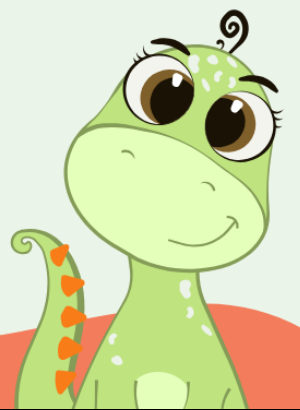
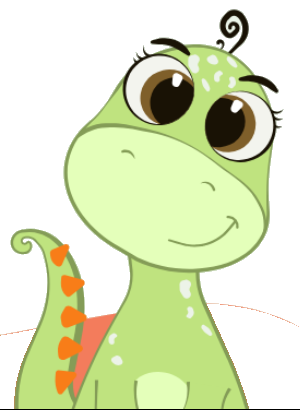
Upgrade Dino Land demo site with birthdays

diff --git a/demo/dinoland/index.html b/demo/dinoland/index.html
@@ -3,167 +3,217 @@
 <head>
 <meta charset="utf-8">
 <meta name="viewport" content="width=device-width, initial-scale=1, viewport-fit=cover">
-<meta name="theme-color" content="#EBF4E8">
+<meta name="theme-color" content="#0F5F64">
 <title>داينو لاند | مركز ترفيهي للأطفال في الأحساء</title>
-<link href="https://fonts.googleapis.com/css2?family=Baloo+Bhaijaan+2:wght@500..800&family=Tajawal:wght@400;500;700&display=swap" rel="stylesheet">
+<link href="https://fonts.googleapis.com/css2?family=Baloo+Bhaijaan+2:wght@500..800&family=Tajawal:wght@400;500;700;800&display=swap" rel="stylesheet">
 <style>
-:root{--bg:#EBF4E8;--card:#FAFCF6;--teal:#13878E;--deep:#12393C;--coral:#E0694A;--lime:#B8D67A;--body:#3F5A5C;}
+:root{--bg:#EBF4E8;--card:#FBFDF8;--teal:#13878E;--teal2:#0F5F64;--deep:#0E2E31;--coral:#E0694A;--coral2:#F2A07E;--lime:#B8D67A;--gold:#F4C95D;--body:#47605F;}
 *{box-sizing:border-box;min-width:0}
-html{scroll-behavior:smooth}
-body{margin:0;background:var(--bg);color:var(--deep);font:17px/1.7 'Tajawal',Tahoma,sans-serif;overflow-x:clip;padding-bottom:env(safe-area-inset-bottom,0px)}
-h1,h2,h3{font-family:'Baloo Bhaijaan 2',Tahoma,sans-serif;margin:0;line-height:1.2}
+html{scroll-behavior:smooth;scroll-padding-top:84px}
+body{margin:0;background:var(--bg);color:var(--deep);font:17px/1.75 'Tajawal',Tahoma,sans-serif;overflow-x:clip}
+h1,h2,h3{font-family:'Baloo Bhaijaan 2',Tahoma,sans-serif;margin:0;line-height:1.15}
 a{color:inherit}
-.wrap{max-width:1100px;margin:auto;padding:0 20px}
-.demo{background:var(--deep);color:#EAF4EE;text-align:center;font-size:13px;padding:6px 12px;padding-top:calc(6px + env(safe-area-inset-top,0px))}
-nav{display:flex;justify-content:space-between;align-items:center;padding:14px 0}
-nav img{height:54px}
-nav .links{display:flex;gap:18px;flex-wrap:wrap}
-nav .links a{text-decoration:none;font-weight:700;color:var(--teal)}
-.btn{display:inline-flex;align-items:center;gap:8px;background:var(--coral);color:#fff;text-decoration:none;font-weight:700;border-radius:40px;padding:12px 26px;min-height:48px;box-shadow:0 10px 20px -10px #e0694aaa}
-.btn.alt{background:#fff;color:var(--teal);box-shadow:none;border:2px solid var(--teal)}
-.hero{display:grid;grid-template-columns:1.1fr .9fr;gap:30px;align-items:end;padding-top:20px}
-.hero h1{font-size:clamp(38px,6vw,64px);color:var(--teal);font-weight:800}
-.hero p{font-size:20px;color:var(--body);margin:14px 0 22px;max-width:30ch}
-.chips{display:flex;gap:8px;flex-wrap:wrap;margin-bottom:22px}
-.chips span{background:#fff;border-radius:30px;padding:6px 14px;font-weight:700;font-size:15px;color:var(--deep)}
-.mascot{position:relative;display:flex;justify-content:center}
-.mascot img{width:min(340px,80%);display:block;animation:float 4s ease-in-out infinite}
-.bubble{position:absolute;z-index:2;top:6%;left:6%;white-space:nowrap;background:#fff;border:3px solid var(--teal);border-radius:24px;padding:8px 18px;font-family:'Baloo Bhaijaan 2',Tahoma,sans-serif;font-weight:700;color:var(--teal);font-size:20px}
-@keyframes float{50%{transform:translateY(-10px)}}
-.waves{display:block;width:100%;height:110px;margin-top:-6px}
-section.band{padding:56px 0}
-section.band.white{background:var(--card)}
-h2{font-size:clamp(30px,4.5vw,44px);color:var(--deep);margin-bottom:8px}
-.sub{color:var(--body);margin:0 0 28px}
-.prices{display:grid;grid-template-columns:repeat(auto-fit,minmax(min(100%,230px),1fr));gap:16px}
-.price{background:#fff;border-radius:24px;padding:24px;display:flex;justify-content:space-between;align-items:center;gap:10px;box-shadow:0 10px 24px -18px #12393c66}
-.price b{font-size:20px}
-.price .v{font-family:'Baloo Bhaijaan 2',Tahoma,sans-serif;font-size:36px;font-weight:800;color:var(--coral);white-space:nowrap}
-.price .v small{font-size:16px;color:var(--body);font-weight:500}
-.note{font-size:15px;color:var(--body);margin-top:14px}
-.sub-wrap{display:grid;grid-template-columns:1fr 1fr;gap:20px;align-items:stretch}
-.plan{background:var(--teal);color:#F1F8F2;border-radius:28px;padding:28px;display:flex;flex-direction:column;gap:6px}
+.wrap{max-width:1140px;margin:auto;padding:0 22px}
+.demo{background:var(--deep);color:#CFE6E1;text-align:center;font-size:13px;padding:6px 12px;padding-top:calc(6px + env(safe-area-inset-top,0px))}
+header.top{position:sticky;top:0;z-index:20;background:rgba(235,244,232,.82);backdrop-filter:blur(14px);-webkit-backdrop-filter:blur(14px);border-bottom:1px solid rgba(19,135,142,.12)}
+header.top .wrap{display:flex;justify-content:space-between;align-items:center;height:72px}
+header.top img{height:46px}
+.links{display:flex;gap:22px}
+.links a{text-decoration:none;font-weight:700;color:var(--teal2);font-size:16px}
+.links a:hover{color:var(--coral)}
+.btn{display:inline-flex;align-items:center;justify-content:center;gap:8px;background:linear-gradient(135deg,#EE7B58,var(--coral));color:#fff;text-decoration:none;font-weight:800;border-radius:40px;padding:12px 28px;min-height:50px;box-shadow:0 14px 28px -14px #e0694acc;transition:transform .2s,box-shadow .2s}
+.btn:hover{transform:translateY(-2px);box-shadow:0 18px 32px -14px #e0694acc}
+.btn.ghost{background:rgba(255,255,255,.9);color:var(--teal2);box-shadow:inset 0 0 0 2px var(--teal)}
+.btn.gold{background:linear-gradient(135deg,#FFD77A,var(--gold));color:var(--deep);box-shadow:0 14px 28px -14px #f4c95dcc}
+.btn:focus-visible,.seg button:focus-visible{outline:3px solid var(--gold);outline-offset:3px}
+.hero{position:relative;margin:26px auto 0;max-width:1180px;border-radius:44px;overflow:hidden;background:radial-gradient(120% 120% at 15% 10%,#1C9AA0 0%,var(--teal) 35%,var(--teal2) 100%);color:#F2FAF4;padding:56px 48px 0;display:grid;grid-template-columns:1.05fr .95fr;gap:20px;align-items:end;isolation:isolate}
+.hero::before{content:"";position:absolute;inset:0;background:radial-gradient(circle,rgba(255,255,255,.14) 1.5px,transparent 2px) 0 0/26px 26px;z-index:-1;opacity:.6}
+.blob{position:absolute;border-radius:50%;z-index:-1;animation:drift 9s ease-in-out infinite}
+.b1{width:180px;height:180px;background:var(--lime);opacity:.35;top:-40px;left:30%}
+.b2{width:90px;height:90px;background:var(--coral2);opacity:.5;top:40%;left:4%;animation-delay:-3s}
+.b3{width:60px;height:60px;background:var(--gold);opacity:.6;top:16%;right:46%;animation-delay:-6s}
+@keyframes drift{50%{transform:translate(14px,-18px)}}
+.hero .txt{padding-bottom:56px}
+.pill{display:inline-block;background:rgba(255,255,255,.16);border:1px solid rgba(255,255,255,.3);border-radius:30px;padding:5px 16px;font-weight:700;font-size:14px;margin-bottom:16px}
+.hero h1{font-size:clamp(42px,6.4vw,76px);font-weight:800;color:#fff}
+.hero h1 span{color:var(--gold)}
+.hero p{font-size:20px;color:#DDF0EA;margin:16px 0 26px;max-width:32ch}
+.actions{display:flex;gap:12px;flex-wrap:wrap}
+.stage{position:relative;display:flex;justify-content:center;align-items:flex-end;min-height:420px}
+.sun{position:absolute;bottom:-40px;width:400px;height:400px;border-radius:50%;background:radial-gradient(circle at 50% 40%,#F6E8B8,#EBD38A 60%,#E0C36E);box-shadow:0 0 0 18px rgba(255,255,255,.08),0 0 0 40px rgba(255,255,255,.05)}
+.stage img{position:relative;width:310px;display:block;animation:float 4.5s ease-in-out infinite;-webkit-mask-image:linear-gradient(#000 88%,transparent);mask-image:linear-gradient(#000 88%,transparent)}
+.bubble{position:absolute;z-index:3;top:18px;left:4%;background:#fff;color:var(--teal2);border-radius:22px 22px 22px 4px;padding:10px 20px;font-family:'Baloo Bhaijaan 2',Tahoma,sans-serif;font-weight:800;font-size:21px;box-shadow:0 12px 24px -12px rgba(0,0,0,.35);white-space:nowrap}
+@keyframes float{50%{transform:translateY(-12px)}}
+.stats{position:relative;z-index:2;max-width:1000px;margin:-38px auto 0;display:grid;grid-template-columns:repeat(4,1fr);background:var(--card);border-radius:28px;box-shadow:0 24px 50px -28px rgba(14,46,49,.45);overflow:hidden}
+.stats div{padding:20px 14px;text-align:center;border-inline-start:1px solid #e3ece1}
+.stats div:first-child{border:0}
+.stats b{display:block;font-family:'Baloo Bhaijaan 2',Tahoma,sans-serif;font-size:30px;color:var(--teal);line-height:1.2}
+.stats span{font-size:14px;color:var(--body)}
+section.band{padding:80px 0}
+.eyebrow{display:inline-block;background:#fff;color:var(--coral);font-weight:800;font-size:14px;border-radius:30px;padding:4px 14px;margin-bottom:12px}
+h2{font-size:clamp(32px,4.6vw,48px);color:var(--deep)}
+.sub{color:var(--body);margin:8px 0 34px;font-size:18px}
+.center{text-align:center}
+.prices{display:grid;grid-template-columns:repeat(4,1fr);gap:18px}
+.price{background:var(--card);border-radius:28px;padding:28px 22px;text-align:center;box-shadow:0 16px 34px -26px rgba(14,46,49,.5);transition:transform .25s}
+.price:hover{transform:translateY(-6px)}
+.price .ic{width:58px;height:58px;margin:0 auto 12px;border-radius:50%;display:grid;place-items:center;font-size:26px;background:var(--bg)}
+.price b{font-size:19px;display:block}
+.price .v{font-family:'Baloo Bhaijaan 2',Tahoma,sans-serif;font-size:46px;font-weight:800;color:var(--coral);line-height:1.15;margin:6px 0 0}
+.price .v small{font-size:17px;color:var(--body);font-weight:600}
+.note{font-size:15px;color:var(--body);margin-top:18px}
+.subgrid{display:grid;grid-template-columns:1fr 1.05fr;gap:22px}
+.plans{display:grid;gap:18px}
+.plan{position:relative;border-radius:30px;padding:30px;color:#F1F8F2;background:linear-gradient(140deg,var(--teal),var(--teal2));overflow:hidden}
+.plan::after{content:"";position:absolute;width:180px;height:180px;border-radius:50%;background:rgba(255,255,255,.08);left:-50px;bottom:-70px}
+.plan.best::before{content:"الأكثر توفيراً";position:absolute;top:18px;left:18px;background:var(--gold);color:var(--deep);font-weight:800;font-size:13px;border-radius:20px;padding:3px 12px}
 .plan h3{font-size:26px}
-.plan .v{font-family:'Baloo Bhaijaan 2',Tahoma,sans-serif;font-size:54px;font-weight:800;color:#fff;line-height:1.1}
+.plan .v{font-family:'Baloo Bhaijaan 2',Tahoma,sans-serif;font-size:60px;font-weight:800;color:#fff;line-height:1.1;margin:6px 0}
 .plan .v small{font-size:20px;opacity:.85}
-.plan .per{background:#ffffff26;border-radius:16px;padding:8px 14px;font-weight:700;align-self:flex-start}
-.calc{background:#fff;border-radius:28px;padding:28px;display:flex;flex-direction:column;gap:14px}
-.calc label{font-weight:700}
+.plan .per{display:inline-block;background:rgba(255,255,255,.16);border-radius:16px;padding:6px 14px;font-weight:700}
+.calc{background:var(--card);border-radius:30px;padding:32px;display:flex;flex-direction:column;gap:16px;box-shadow:0 16px 34px -26px rgba(14,46,49,.5)}
+.calc h3{font-size:26px;color:var(--teal2)}
 .seg{display:flex;gap:8px;flex-wrap:wrap}
-.seg button{font:inherit;font-weight:700;border:2px solid var(--teal);background:#fff;color:var(--teal);border-radius:30px;padding:8px 18px;min-height:44px;cursor:pointer}
+.seg button{font:inherit;font-weight:800;border:0;background:var(--bg);color:var(--teal2);border-radius:30px;padding:10px 20px;min-height:46px;cursor:pointer}
 .seg button.on{background:var(--teal);color:#fff}
-.seg button:focus-visible,.btn:focus-visible{outline:3px solid var(--coral);outline-offset:2px}
-.res{font-family:'Baloo Bhaijaan 2',Tahoma,sans-serif;font-size:28px;font-weight:800;color:var(--deep);line-height:1.4}
+.res{font-family:'Baloo Bhaijaan 2',Tahoma,sans-serif;font-size:26px;font-weight:800;line-height:1.5;background:var(--bg);border-radius:20px;padding:18px 22px;margin:0}
 .res em{font-style:normal;color:var(--coral)}
-.acts{display:grid;grid-template-columns:repeat(auto-fit,minmax(min(100%,180px),1fr));gap:14px}
-.act{background:var(--bg);border-radius:22px;padding:22px 18px;text-align:center}
-.act .e{font-size:40px;line-height:1}
-.act b{display:block;margin-top:8px;font-size:18px}
+.acts{display:grid;grid-template-columns:repeat(3,1fr);gap:18px}
+.act{background:var(--card);border-radius:28px;padding:26px;display:flex;gap:16px;align-items:center;box-shadow:0 16px 34px -26px rgba(14,46,49,.5)}
+.act .e{flex:none;width:64px;height:64px;border-radius:20px;display:grid;place-items:center;font-size:32px}
+.act b{display:block;font-size:19px}
 .act span{font-size:15px;color:var(--body)}
-.parties{display:grid;grid-template-columns:1fr 1fr;gap:20px}
-.party{background:#fff;border-radius:28px;padding:28px;border-top:8px solid var(--lime)}
-.party.c{border-top-color:var(--coral)}
-.party h3{font-size:26px;margin-bottom:6px}
-.party p{margin:0 0 16px;color:var(--body)}
-.visit{display:grid;grid-template-columns:1fr 1fr;gap:20px;align-items:center}
-.visit .box{background:#fff;border-radius:28px;padding:28px}
-.visit .row{display:flex;gap:12px;align-items:flex-start;margin:10px 0}
-.visit .row .e{font-size:24px}
-footer{background:var(--deep);color:#CFE3DE;text-align:center;padding:28px 20px;font-size:15px}
+.bday{position:relative;background:radial-gradient(120% 120% at 85% 0%,#2A9EA2,var(--teal2) 55%,var(--deep));color:#EAF5F0;border-radius:44px;max-width:1180px;margin:0 auto;padding:64px 48px;overflow:hidden;isolation:isolate}
+.conf{position:absolute;width:12px;height:12px;border-radius:3px;z-index:-1;animation:fall 7s linear infinite;opacity:.8}
+@keyframes fall{from{transform:translateY(-40px) rotate(0)}to{transform:translateY(760px) rotate(360deg)}}
+.bday .new{display:inline-block;background:var(--gold);color:var(--deep);font-weight:800;border-radius:30px;padding:4px 16px;font-size:14px;margin-bottom:12px}
+.bday h2{color:#fff}
+.bday .sub{color:#CFE6E1}
+.bgrid{display:grid;grid-template-columns:repeat(3,1fr);gap:18px;margin-bottom:30px}
+.bitem{background:rgba(255,255,255,.1);border:1px solid rgba(255,255,255,.18);border-radius:26px;padding:24px;backdrop-filter:blur(6px)}
+.bitem .e{font-size:34px}
+.bitem b{display:block;font-size:20px;color:#fff;margin:6px 0 4px}
+.bitem span{color:#CFE6E1;font-size:15px}
+.trip{display:grid;grid-template-columns:1fr 1fr;gap:22px;align-items:center}
+.card{background:var(--card);border-radius:30px;padding:32px;border-top:8px solid var(--lime);box-shadow:0 16px 34px -26px rgba(14,46,49,.5)}
+.card h3{font-size:28px;margin-bottom:8px}
+.card p{color:var(--body);margin:0 0 18px}
+.row{display:flex;gap:14px;align-items:flex-start;margin:12px 0}
+.row .e{flex:none;width:46px;height:46px;border-radius:14px;background:var(--bg);display:grid;place-items:center;font-size:22px}
+.waves{display:block;width:100%;height:110px;margin-top:40px}
+footer{background:var(--deep);color:#B9D6D0;text-align:center;padding:30px 20px calc(30px + env(safe-area-inset-bottom,0px));font-size:15px}
 footer b{color:#fff}
-@media (max-width:760px){.hero,.sub-wrap,.parties,.visit{grid-template-columns:1fr}.hero{text-align:center}.hero p{margin-inline:auto}.chips{justify-content:center}nav .links{display:none}.mascot img{width:240px}}
-@media (prefers-reduced-motion:reduce){.mascot img{animation:none}html{scroll-behavior:auto}}
+@media (max-width:900px){.prices{grid-template-columns:repeat(2,1fr)}.acts,.bgrid{grid-template-columns:1fr 1fr}}
+@media (max-width:760px){.hero{grid-template-columns:1fr;padding:40px 24px 0;text-align:center;border-radius:0 0 36px 36px;margin-top:0}.hero p{margin-inline:auto}.actions{justify-content:center}.stage{min-height:330px}.sun{width:300px;height:300px}.stage img{width:230px}.stats{grid-template-columns:1fr 1fr;margin:-24px 16px 0}.stats div:nth-child(3){border:0}.links{display:none}.subgrid,.trip{grid-template-columns:1fr}.acts,.bgrid{grid-template-columns:1fr}.bday{border-radius:0;padding:48px 22px}section.band{padding:60px 0}}
+@media (prefers-reduced-motion:reduce){*{animation:none!important;transition:none!important}html{scroll-behavior:auto}}
 </style>
 </head>
 <body>
 <div class="demo">نموذج تجريبي من تصميم عبدالله هيثم لداينو لاند</div>
-<div class="wrap">
-<nav>
+<header class="top"><div class="wrap">
 <img src="dino-logo.png" alt="داينو لاند">
-<div class="links"><a href="#prices">الأسعار</a><a href="#sub">الاشتراك</a><a href="#play">الأنشطة</a><a href="#parties">الحفلات والرحلات</a><a href="#visit">موقعنا</a></div>
-</nav>
-<header class="hero">
-<div>
-<h1>داينو لاند<br>نلعب ونتعلم 🦖</h1>
-<p>مركز ترفيهي آمن ومطوّر للأطفال في الأحساء، يدعم التعلم باللعب.</p>
-<div class="chips"><span>👧 من 4 إلى 12 سنة</span><span>🛡 مكان آمن</span><span>🎨 أنشطة كل أسبوع</span></div>
-<a class="btn" href="https://linktr.ee/dinoland2030">تواصل واحجز</a>
-<a class="btn alt" href="#sub" style="margin-inline-start:8px">وفّر مع الاشتراك</a>
-</div>
-<div class="mascot"><div class="bubble">هلا والله!</div><img src="dino-mascot.png" alt="داينو، شخصية داينو لاند"></div>
-</header>
-</div>
-<svg class="waves" viewBox="0 0 1440 110" preserveAspectRatio="none" aria-hidden="true"><path d="M0 40 C 300 0 600 10 860 40 S 1300 70 1440 30 L1440 110 L0 110Z" fill="#B8D67A"/><path d="M0 70 C 380 40 700 90 1000 65 S 1320 50 1440 72 L1440 110 L0 110Z" fill="#13878E"/><path d="M0 95 C 400 80 800 108 1100 92 S 1360 88 1440 98 L1440 110 L0 110Z" fill="#E0694A"/></svg>
+<nav class="links"><a href="#prices">الأسعار</a><a href="#sub">الاشتراك</a><a href="#play">الأنشطة</a><a href="#bday">أعياد الميلاد</a><a href="#visit">موقعنا</a></nav>
+<a class="btn" href="https://linktr.ee/dinoland2030" style="min-height:42px;padding:8px 20px">احجز</a>
+</div></header>
 
-<section class="band white" id="prices"><div class="wrap">
-<h2>الأسعار</h2><p class="sub">شاملة ضريبة القيمة المضافة</p>
-<div class="prices">
-<div class="price"><b>الساعة</b><span class="v">55 <small>ريال</small></span></div>
-<div class="price"><b>الساعتين</b><span class="v">85 <small>ريال</small></span></div>
-<div class="price"><b>الساعة للأخوين</b><span class="v">95 <small>ريال</small></span></div>
-<div class="price"><b>المرافق</b><span class="v">10 <small>ريال</small></span></div>
+<section class="hero">
+<span class="blob b1"></span><span class="blob b2"></span><span class="blob b3"></span>
+<div class="txt">
+<span class="pill">🦖 الأحساء · حي الواحة</span>
+<h1>عالم داينو<br><span>يلعب ويتعلم</span></h1>
+<p>مركز ترفيهي آمن ومطوّر للأطفال، كل زيارة فيها لعب وإبداع وضحك.</p>
+<div class="actions"><a class="btn gold" href="https://linktr.ee/dinoland2030">تواصل واحجز</a><a class="btn ghost" href="#bday">احتفل عندنا 🎂</a></div>
 </div>
-<p class="note">الجوارب متوفرة في المركز · خصم 10% للمجموعات</p>
+<div class="stage"><div class="sun"></div><div class="bubble">هلا والله! 👋</div><img src="dino-mascot.png" alt="داينو، شخصية داينو لاند"></div>
+</section>
+<div class="stats">
+<div><b>4–12</b><span>سنة</span></div>
+<div><b>29 يوم</b><span>اشتراك شهري</span></div>
+<div><b>10%</b><span>خصم للمجموعات</span></div>
+<div><b>آمن</b><span>ومطوّر</span></div>
+</div>
+
+<section class="band" id="prices"><div class="wrap">
+<div class="center"><span class="eyebrow">الأسعار</span><h2>اختر وقت اللعب</h2><p class="sub">شاملة ضريبة القيمة المضافة</p></div>
+<div class="prices">
+<div class="price"><div class="ic">⏱</div><b>الساعة</b><p class="v">55 <small>ريال</small></p></div>
+<div class="price"><div class="ic">⏳</div><b>الساعتين</b><p class="v">85 <small>ريال</small></p></div>
+<div class="price"><div class="ic">👫</div><b>الساعة للأخوين</b><p class="v">95 <small>ريال</small></p></div>
+<div class="price"><div class="ic">🤝</div><b>المرافق</b><p class="v">10 <small>ريال</small></p></div>
+</div>
+<p class="note center">الجوارب متوفرة في المركز · خصم 10% للمجموعات</p>
 </div></section>
 
-<section class="band" id="sub"><div class="wrap">
-<h2>الاشتراك الشهري</h2><p class="sub">29 يوم، وطفلك يجي كل يوم</p>
-<div class="sub-wrap">
-<div style="display:grid;gap:16px">
-<div class="plan"><h3>ساعة يومياً</h3><p class="v">750 <small>ريال</small></p><span class="per">حوالي 26 ريال لليوم</span></div>
-<div class="plan" style="background:#0F6F75"><h3>ساعتين يومياً</h3><p class="v">1,160 <small>ريال</small></p><span class="per">حوالي 40 ريال لليوم</span></div>
+<section class="band" id="sub" style="padding-top:0"><div class="wrap">
+<span class="eyebrow">الاشتراك الشهري</span><h2>كل يوم لعب، بسعر أقل</h2><p class="sub">29 يوم، وطفلك يجي كل يوم</p>
+<div class="subgrid">
+<div class="plans">
+<div class="plan best"><h3>ساعة يومياً</h3><p class="v">750 <small>ريال</small></p><span class="per">حوالي 26 ريال لليوم</span></div>
+<div class="plan" style="background:linear-gradient(140deg,#0F6F75,var(--deep))"><h3>ساعتين يومياً</h3><p class="v">1,160 <small>ريال</small></p><span class="per">حوالي 40 ريال لليوم</span></div>
 </div>
 <div class="calc">
-<label>كم مرة يجي طفلك في الشهر؟</label>
-<div class="seg" id="seg"><button type="button" data-n="8">8 مرات</button><button type="button" data-n="15" class="on">15 مرة</button><button type="button" data-n="29">كل يوم</button></div>
+<h3>احسبي توفيرك</h3>
+<p style="margin:0;color:var(--body)">كم مرة يجي طفلك في الشهر؟</p>
+<div class="seg" id="seg"><button type="button" data-n="8">8 مرات</button><button type="button" data-n="15" class="on">15 مرة</button><button type="button" data-n="22">22 مرة</button><button type="button" data-n="29">كل يوم</button></div>
 <p class="res" id="res"></p>
-<p class="note">الحسبة على أساس سعر الساعة 55 ريال مقابل اشتراك الساعة اليومية. يرجى الاطلاع على الشروط والأحكام.</p>
+<p class="note" style="margin:0">الحسبة على أساس سعر الساعة 55 ريال مقابل اشتراك الساعة اليومية. يرجى الاطلاع على الشروط والأحكام.</p>
 <a class="btn" href="https://linktr.ee/dinoland2030" style="align-self:flex-start">اشترك الحين</a>
 </div>
 </div>
 </div></section>
 
-<section class="band white" id="play"><div class="wrap">
-<h2>وش نسوي في داينو لاند؟</h2><p class="sub">أنشطة تتجدد، وطفلك يتعلم وهو يلعب</p>
+<section class="band" id="play" style="padding-top:0"><div class="wrap">
+<div class="center"><span class="eyebrow">الأنشطة</span><h2>وش نسوي في داينو لاند؟</h2><p class="sub">أنشطة تتجدد، وطفلك يتعلم وهو يلعب</p></div>
 <div class="acts">
-<div class="act"><div class="e">🎨</div><b>الرسم والتلوين</b><span>ورش رسم وأنشطة فنية</span></div>
-<div class="act"><div class="e">🧩</div><b>تحديات التركيب</b><span>مين الأسرع؟</span></div>
-<div class="act"><div class="e">🟠</div><b>مسبح الكور</b><span>لعب وحركة</span></div>
-<div class="act"><div class="e">🏖</div><b>الرمل الملوّن</b><span>تشكيل وإبداع</span></div>
-<div class="act"><div class="e">🦋</div><b>الرسم على الوجه</b><span>شخصيات وألوان</span></div>
-<div class="act"><div class="e">✨</div><b>تجارب 3D</b><span>عالم ثاني</span></div>
+<div class="act"><div class="e" style="background:#FCE3D9">🎨</div><div><b>الرسم والتلوين</b><span>ورش رسم وأنشطة فنية</span></div></div>
+<div class="act"><div class="e" style="background:#E2F0CC">🧩</div><div><b>تحديات التركيب</b><span>مين الأسرع؟</span></div></div>
+<div class="act"><div class="e" style="background:#FFF0CC">🟠</div><div><b>مسبح الكور</b><span>لعب وحركة</span></div></div>
+<div class="act"><div class="e" style="background:#D6EEEF">🏖</div><div><b>الرمل الملوّن</b><span>تشكيل وإبداع</span></div></div>
+<div class="act"><div class="e" style="background:#FCE3D9">🦋</div><div><b>الرسم على الوجه</b><span>شخصيات وألوان</span></div></div>
+<div class="act"><div class="e" style="background:#E2F0CC">✨</div><div><b>تجارب 3D</b><span>عالم ثاني</span></div></div>
 </div>
 </div></section>
 
-<section class="band" id="parties"><div class="wrap">
-<h2>حفلات ورحلات</h2><p class="sub">خلّ المناسبة في داينو لاند</p>
-<div class="parties">
-<div class="party"><h3>🎂 أعياد الميلاد</h3><p>احتفلوا بيوم طفلكم مع أصحابه في مكان آمن ومليان لعب.</p><a class="btn" href="https://linktr.ee/dinoland2030">اسأل عن الحفلات</a></div>
-<div class="party c"><h3>🏫 رحلات الروضات والمدارس</h3><p>رحلة مرتبة للمجموعات، وخصم 10% للمجموعات.</p><a class="btn" href="https://linktr.ee/dinoland2030">رتّب رحلة</a></div>
+<section class="bday" id="bday">
+<div id="conf"></div>
+<span class="new">جديد ✨</span>
+<h2>احتفل بيوم ميلاد طفلك مع داينو</h2>
+<p class="sub">حفلة كاملة في مكان آمن، وأنتم بس استمتعوا</p>
+<div class="bgrid">
+<div class="bitem"><div class="e">🎈</div><b>ركن الحفلة</b><span>زينة بألوان داينو وطاولة للكيك</span></div>
+<div class="bitem"><div class="e">🦖</div><b>داينو يحتفل معكم</b><span>فقرات وألعاب جماعية مع الأطفال</span></div>
+<div class="bitem"><div class="e">🎁</div><b>هدية لصاحب الحفلة</b><span>ذكرى من داينو لاند</span></div>
 </div>
+<a class="btn gold" href="https://linktr.ee/dinoland2030">اسأل عن باقات الحفلات</a>
+</section>
+
+<section class="band"><div class="wrap trip">
+<div><span class="eyebrow">للروضات والمدارس</span><h2>رحلة يتذكرها الأطفال</h2><p class="sub">رحلات مرتبة للمجموعات، وخصم 10% للمجموعات</p></div>
+<div class="card"><h3>🏫 رتّب رحلة لروضتك</h3><p>نستقبل الأطفال مع معلماتهم، ونرتب لهم وقت لعب وأنشطة تناسب أعمارهم.</p><a class="btn" href="https://linktr.ee/dinoland2030">تواصل معنا</a></div>
 </div></section>
 
-<section class="band white" id="visit"><div class="wrap">
-<h2>تعال زورنا</h2>
-<div class="visit">
-<div class="box">
+<section class="band" id="visit" style="padding-top:0"><div class="wrap trip">
+<div class="card" style="border-top-color:var(--coral)">
+<h3>تعال زورنا</h3>
 <div class="row"><span class="e">📍</span><div><b>الأحساء، حي الواحة</b><br>مجمع ذاووك</div></div>
 <div class="row"><span class="e">🕒</span><div><b>أوقات العمل</b><br>تلقونها في حساباتنا وروابطنا</div></div>
 <div class="row"><span class="e">📱</span><div><b>تابعنا</b><br>@dinolandksa على تيك توك وانستقرام وسناب</div></div>
 </div>
-<div style="text-align:center"><a class="btn" href="https://www.google.com/maps/search/?api=1&query=Dino+Land+Al+Ahsa">افتح الموقع في الخرائط</a><br><br><a class="btn alt" href="https://linktr.ee/dinoland2030">كل روابطنا</a></div>
-</div>
+<div class="center"><a class="btn" href="https://www.google.com/maps/search/?api=1&query=Dino+Land+Al+Ahsa">افتح الموقع في الخرائط</a><br><br><a class="btn ghost" href="https://linktr.ee/dinoland2030">كل روابطنا</a></div>
 </div></section>
 
+<svg class="waves" viewBox="0 0 1440 110" preserveAspectRatio="none" aria-hidden="true"><path d="M0 40 C 300 0 600 10 860 40 S 1300 70 1440 30 L1440 110 L0 110Z" fill="#B8D67A"/><path d="M0 70 C 380 40 700 90 1000 65 S 1320 50 1440 72 L1440 110 L0 110Z" fill="#13878E"/><path d="M0 95 C 400 80 800 108 1100 92 S 1360 88 1440 98 L1440 110 L0 110Z" fill="#E0694A"/></svg>
 <footer><b>داينو لاند</b> · مركز آمن ومطوّر للأطفال · الأحساء<br>نموذج تجريبي من تصميم عبدالله هيثم</footer>
 
 <script>
 {
 const seg=document.getElementById('seg'),res=document.getElementById('res');
 const ar=n=>n.toLocaleString('ar-SA');
-const draw=n=>{const pay=n*55,save=pay-750;res.innerHTML=save>0?`بدون اشتراك تدفع <em>${ar(pay)} ريال</em><br>ومع الاشتراك 750 بس، يعني توفر <em>${ar(save)} ريال</em> 🎉`:`بدون اشتراك تدفع <em>${ar(pay)} ريال</em><br>إذا يجي 14 مرة أو أكثر، الاشتراك يوفر لك`;};
+const draw=n=>{const pay=n*55,save=pay-750;res.innerHTML=save>0?`بدون اشتراك: <em>${ar(pay)} ريال</em><br>مع الاشتراك: 750 ريال، يعني توفرين <em>${ar(save)} ريال</em> 🎉`:`بدون اشتراك: <em>${ar(pay)} ريال</em><br>إذا يجي 14 مرة أو أكثر، الاشتراك يوفر لك`;};
 seg.addEventListener('click',e=>{const b=e.target.closest('button');if(!b)return;seg.querySelectorAll('button').forEach(x=>x.classList.toggle('on',x===b));draw(+b.dataset.n)});
 draw(15);
+const c=document.getElementById('conf'),cols=['#F4C95D','#E0694A','#B8D67A','#ffffff'];
+c.innerHTML=Array.from({length:22},(_,i)=>`<i class="conf" style="left:${(i*47)%100}%;top:-20px;background:${cols[i%4]};animation-delay:-${(i*0.37)%7}s;animation-duration:${6+(i%4)}s"></i>`).join('');
 }
 </script>
 </body>
